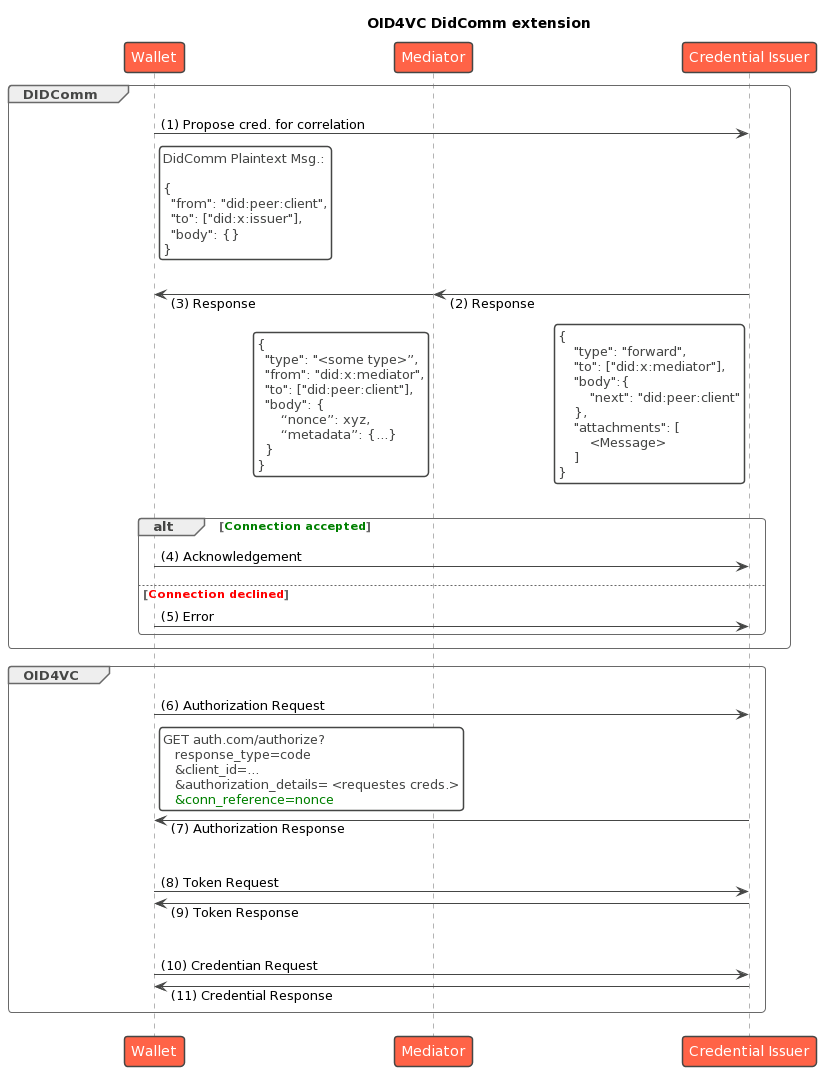
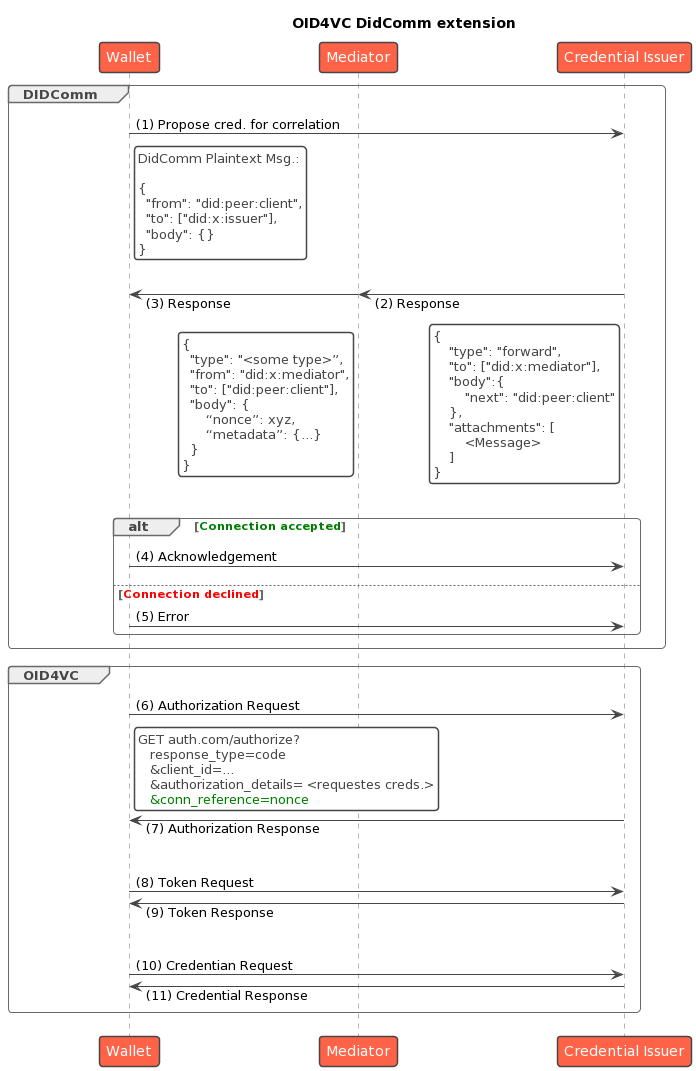
Diagramme durch PlantUML ersetzt

diff --git a/README.md b/README.md
@@ -19,14 +19,14 @@ OpenIDComm extends the existing [OpenID for Verifiable Credential Issuance](http
 
 ## OID4VC Extension
 ### Up-Stream
-![OID4VC Diagram](/Diagramme/vorgelagert.png "OID4VC Extension")
+![OID4VC Diagram](/Diagramme/oid4vc_didcomm_preconnection.png "OID4VC Extension")
 
 In this variant, a DidComm connection is established before the start of the corresponding OID4VC process. The client sends request and receives a random nonce & metadata with DidComm requirements. Based on this metadata, the client can decide, if it wants to acknowledge or send an error.
 
 Next the previous nonce is used in the OID4VC authorization request to correlate the request. Depending on if the DidComm connection was acknowledged or not, the issuer can then allow/deny access.
 
 ### In-Stream
-![OID4VC Diagram](/Diagramme/eingelagert_4VC.png "OID4VC Extension")
+![OID4VC Diagram](/Diagramme/oid4vc_didcomm_midconnection.png "OID4VC Extension")
 
 The Credential Issuer Metadata contains a new attribute `didcomm_required` describing if a DIDComm connection is required or optional to obtain the Verified Credential.
 
@@ -37,7 +37,7 @@ If a DIDComm connection is required but could not be established, the Issuer sen
 ### Down-Stream
 In contrast to the previous flow, this variant establishes the connection after the completion of the main OID4VC process.
 
-![OID4VC Diagram](/Diagramme/nachgelagert.png "OID4VC Downstream Extension")
+![OID4VC Diagram](/Diagramme/oid4vc_didcomm_postconnection.png "OID4VC Downstream Extension")
 
 If the issuer-DID is public, no modifications to the OID4VC flow are made in this variant. Otherwise, the issuer would need to add its DID to its metadata.
 
@@ -45,33 +45,9 @@ Regardless, a request for a DIDComm connection is made by the client after the c
 
 The issuer then resolves the DID contained in the message's `from:` field and uses the contained service endpoint to respond.
 
-**Pros:** No/Minimal modification of the OID4VC flow needed.
-
-**Cons:** Issuer-side enforcement of connection not possible.
-
 ## OID4VP Extension
-![OID4VP Diagram](/Diagramme/eingelagert_4VP.png "OID4VP Extension")
+![OID4VP Diagram](/Diagramme/oid4vp_didcomm_midconnection.png "OID4VP Extension")
 
 The OID4VP protocol is extended similiar to the OID4VC flow but with switched roles. Again, the Authorization Request contains a DID for usage with DIDComm, but this time the Verifier sends the Request and the Wallet initiates the DIDComm channel.
 
 The Authorization Response is treated the same way as described in the OID4VC extension.
-
-## Contributing
-<!-- TODO: -->
-State if you are open to contributions and what your requirements are for accepting them.
-
-For people who want to make changes to your project, it's helpful to have some documentation on how to get started. Perhaps there is a script that they should run or some environment variables that they need to set. Make these steps explicit. These instructions could also be useful to your future self.
-
-You can also document commands to lint the code or run tests. These steps help to ensure high code quality and reduce the likelihood that the changes inadvertently break something. Having instructions for running tests is especially helpful if it requires external setup, such as starting a Selenium server for testing in a browser.
-
-## Authors and acknowledgment
-<!-- TODO: -->
-Show your appreciation to those who have contributed to the project.
-
-## License
-<!-- TODO: -->
-For open source projects, say how it is licensed.
-
-## Project status
-<!-- TODO: -->
-If you have run out of energy or time for your project, put a note at the top of the README saying that development has slowed down or stopped completely. Someone may choose to fork your project or volunteer to step in as a maintainer or owner, allowing your project to keep going. You can also make an explicit request for maintainers.
